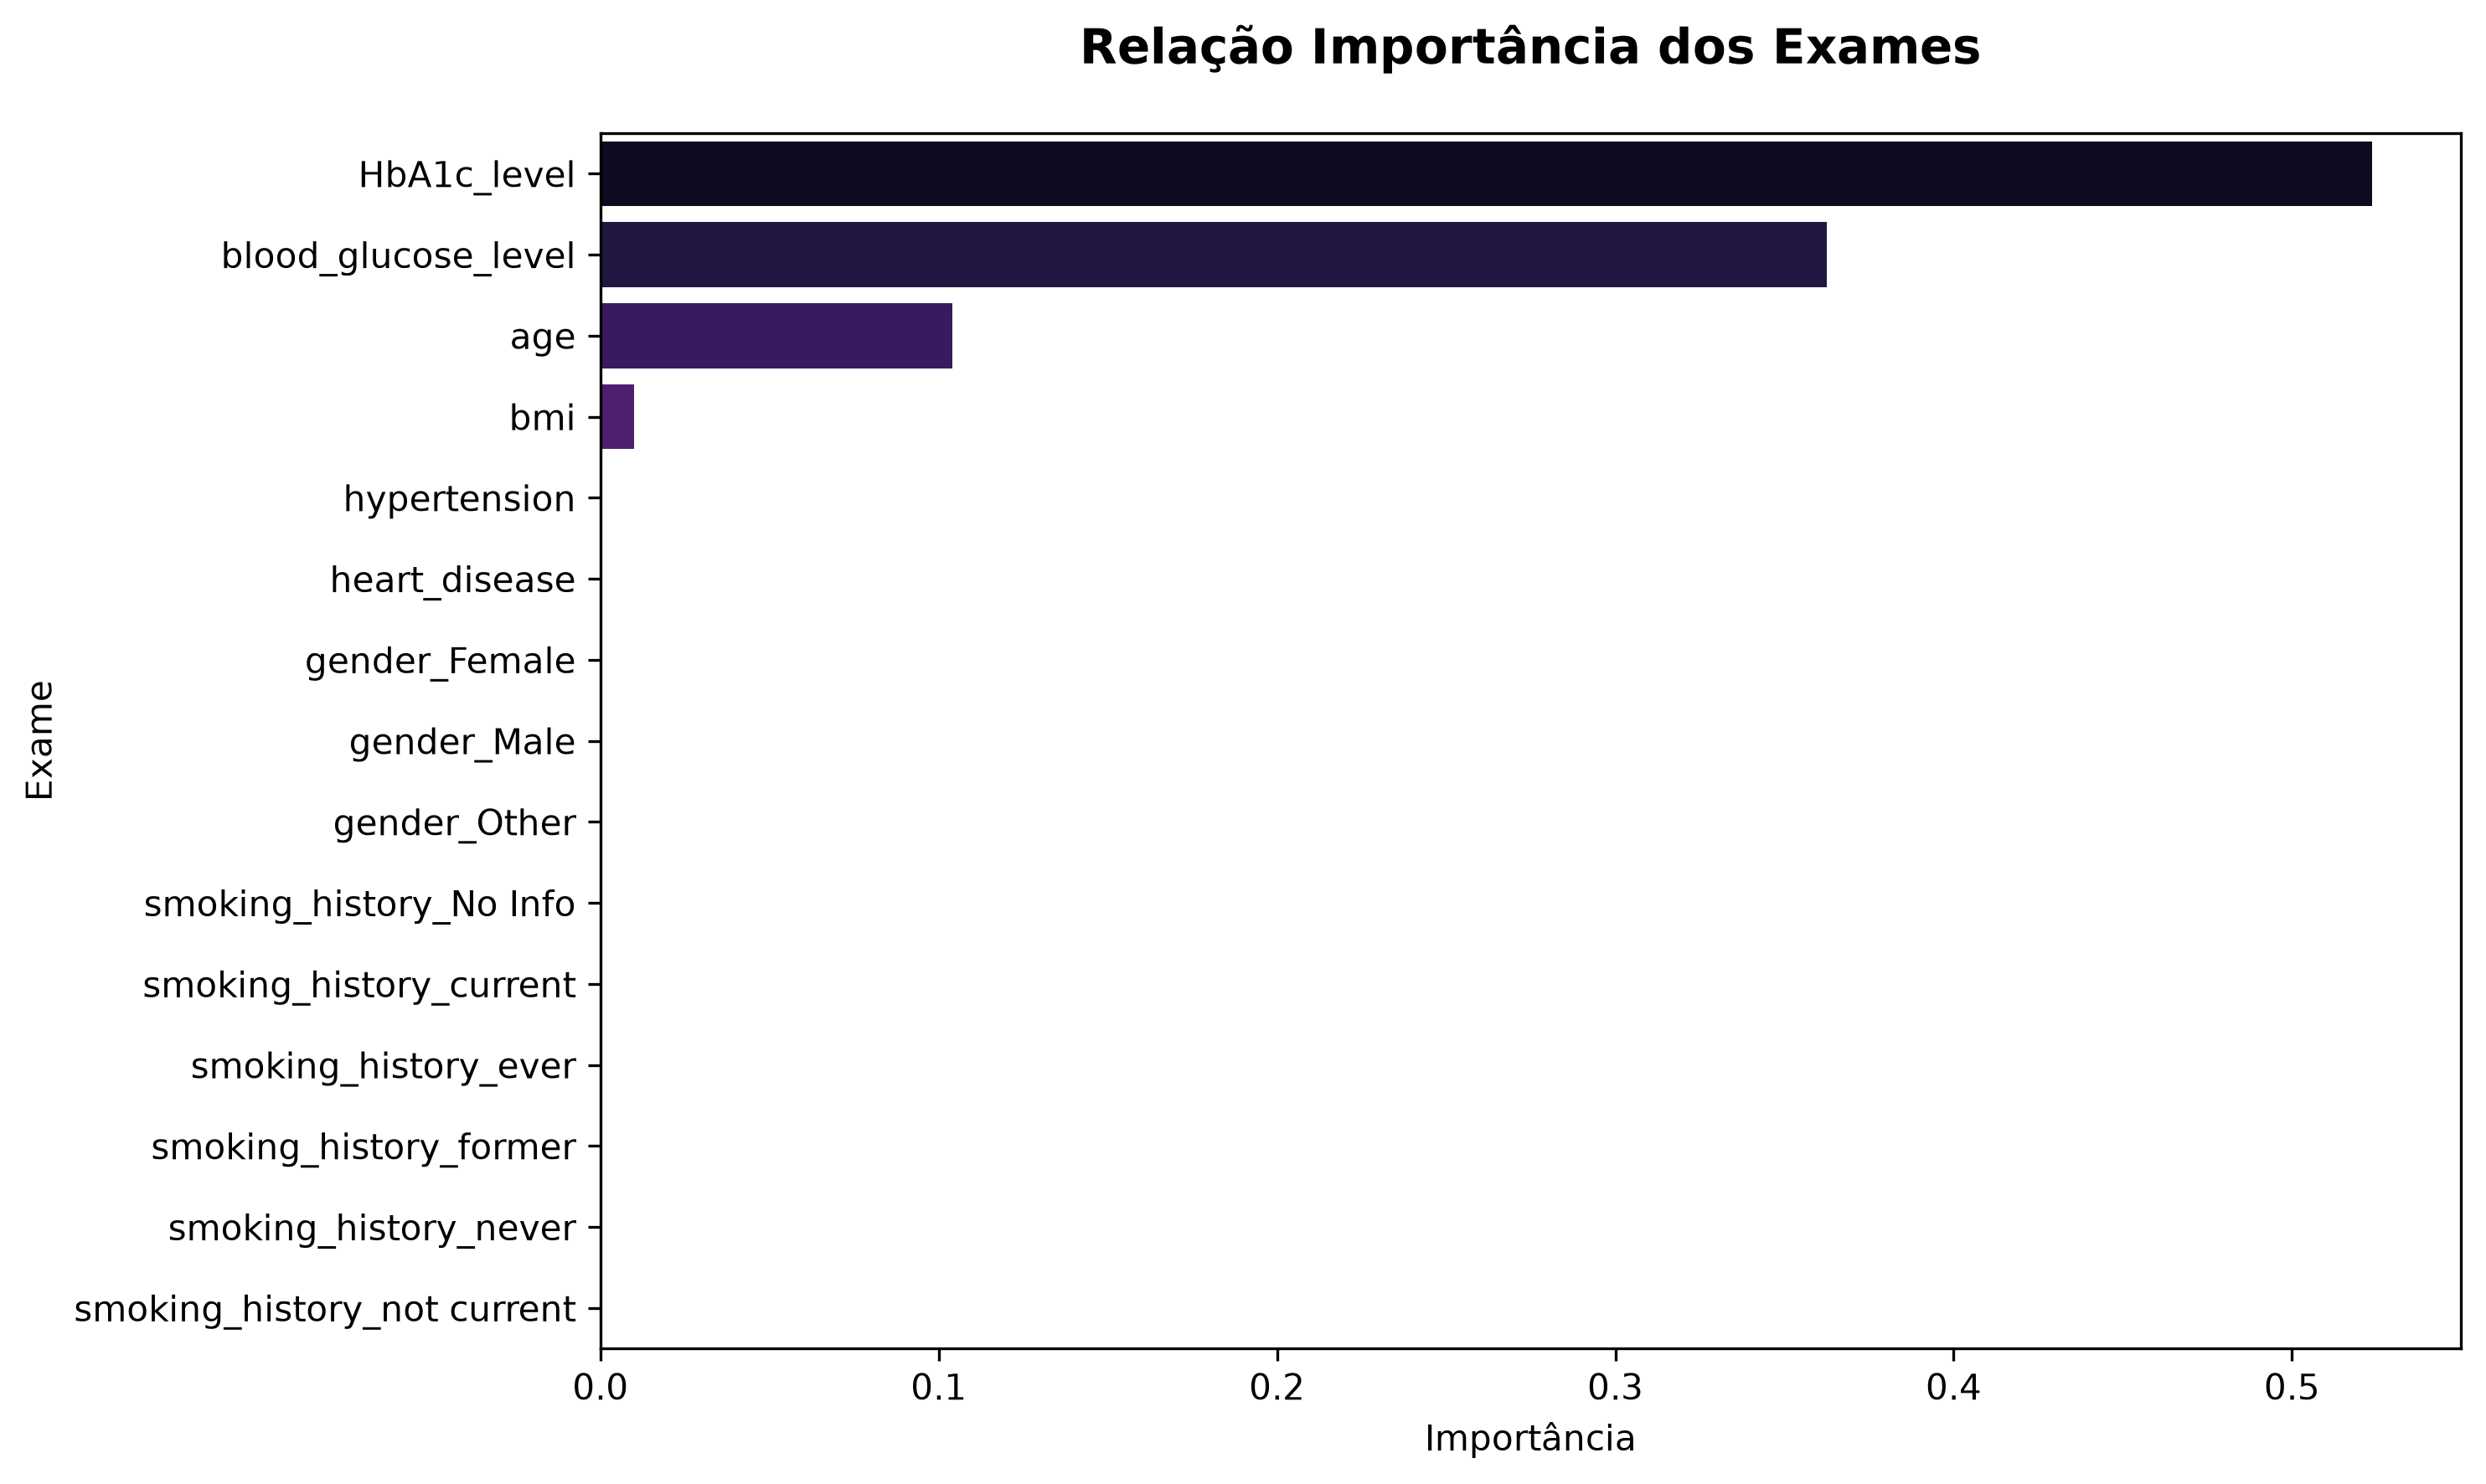
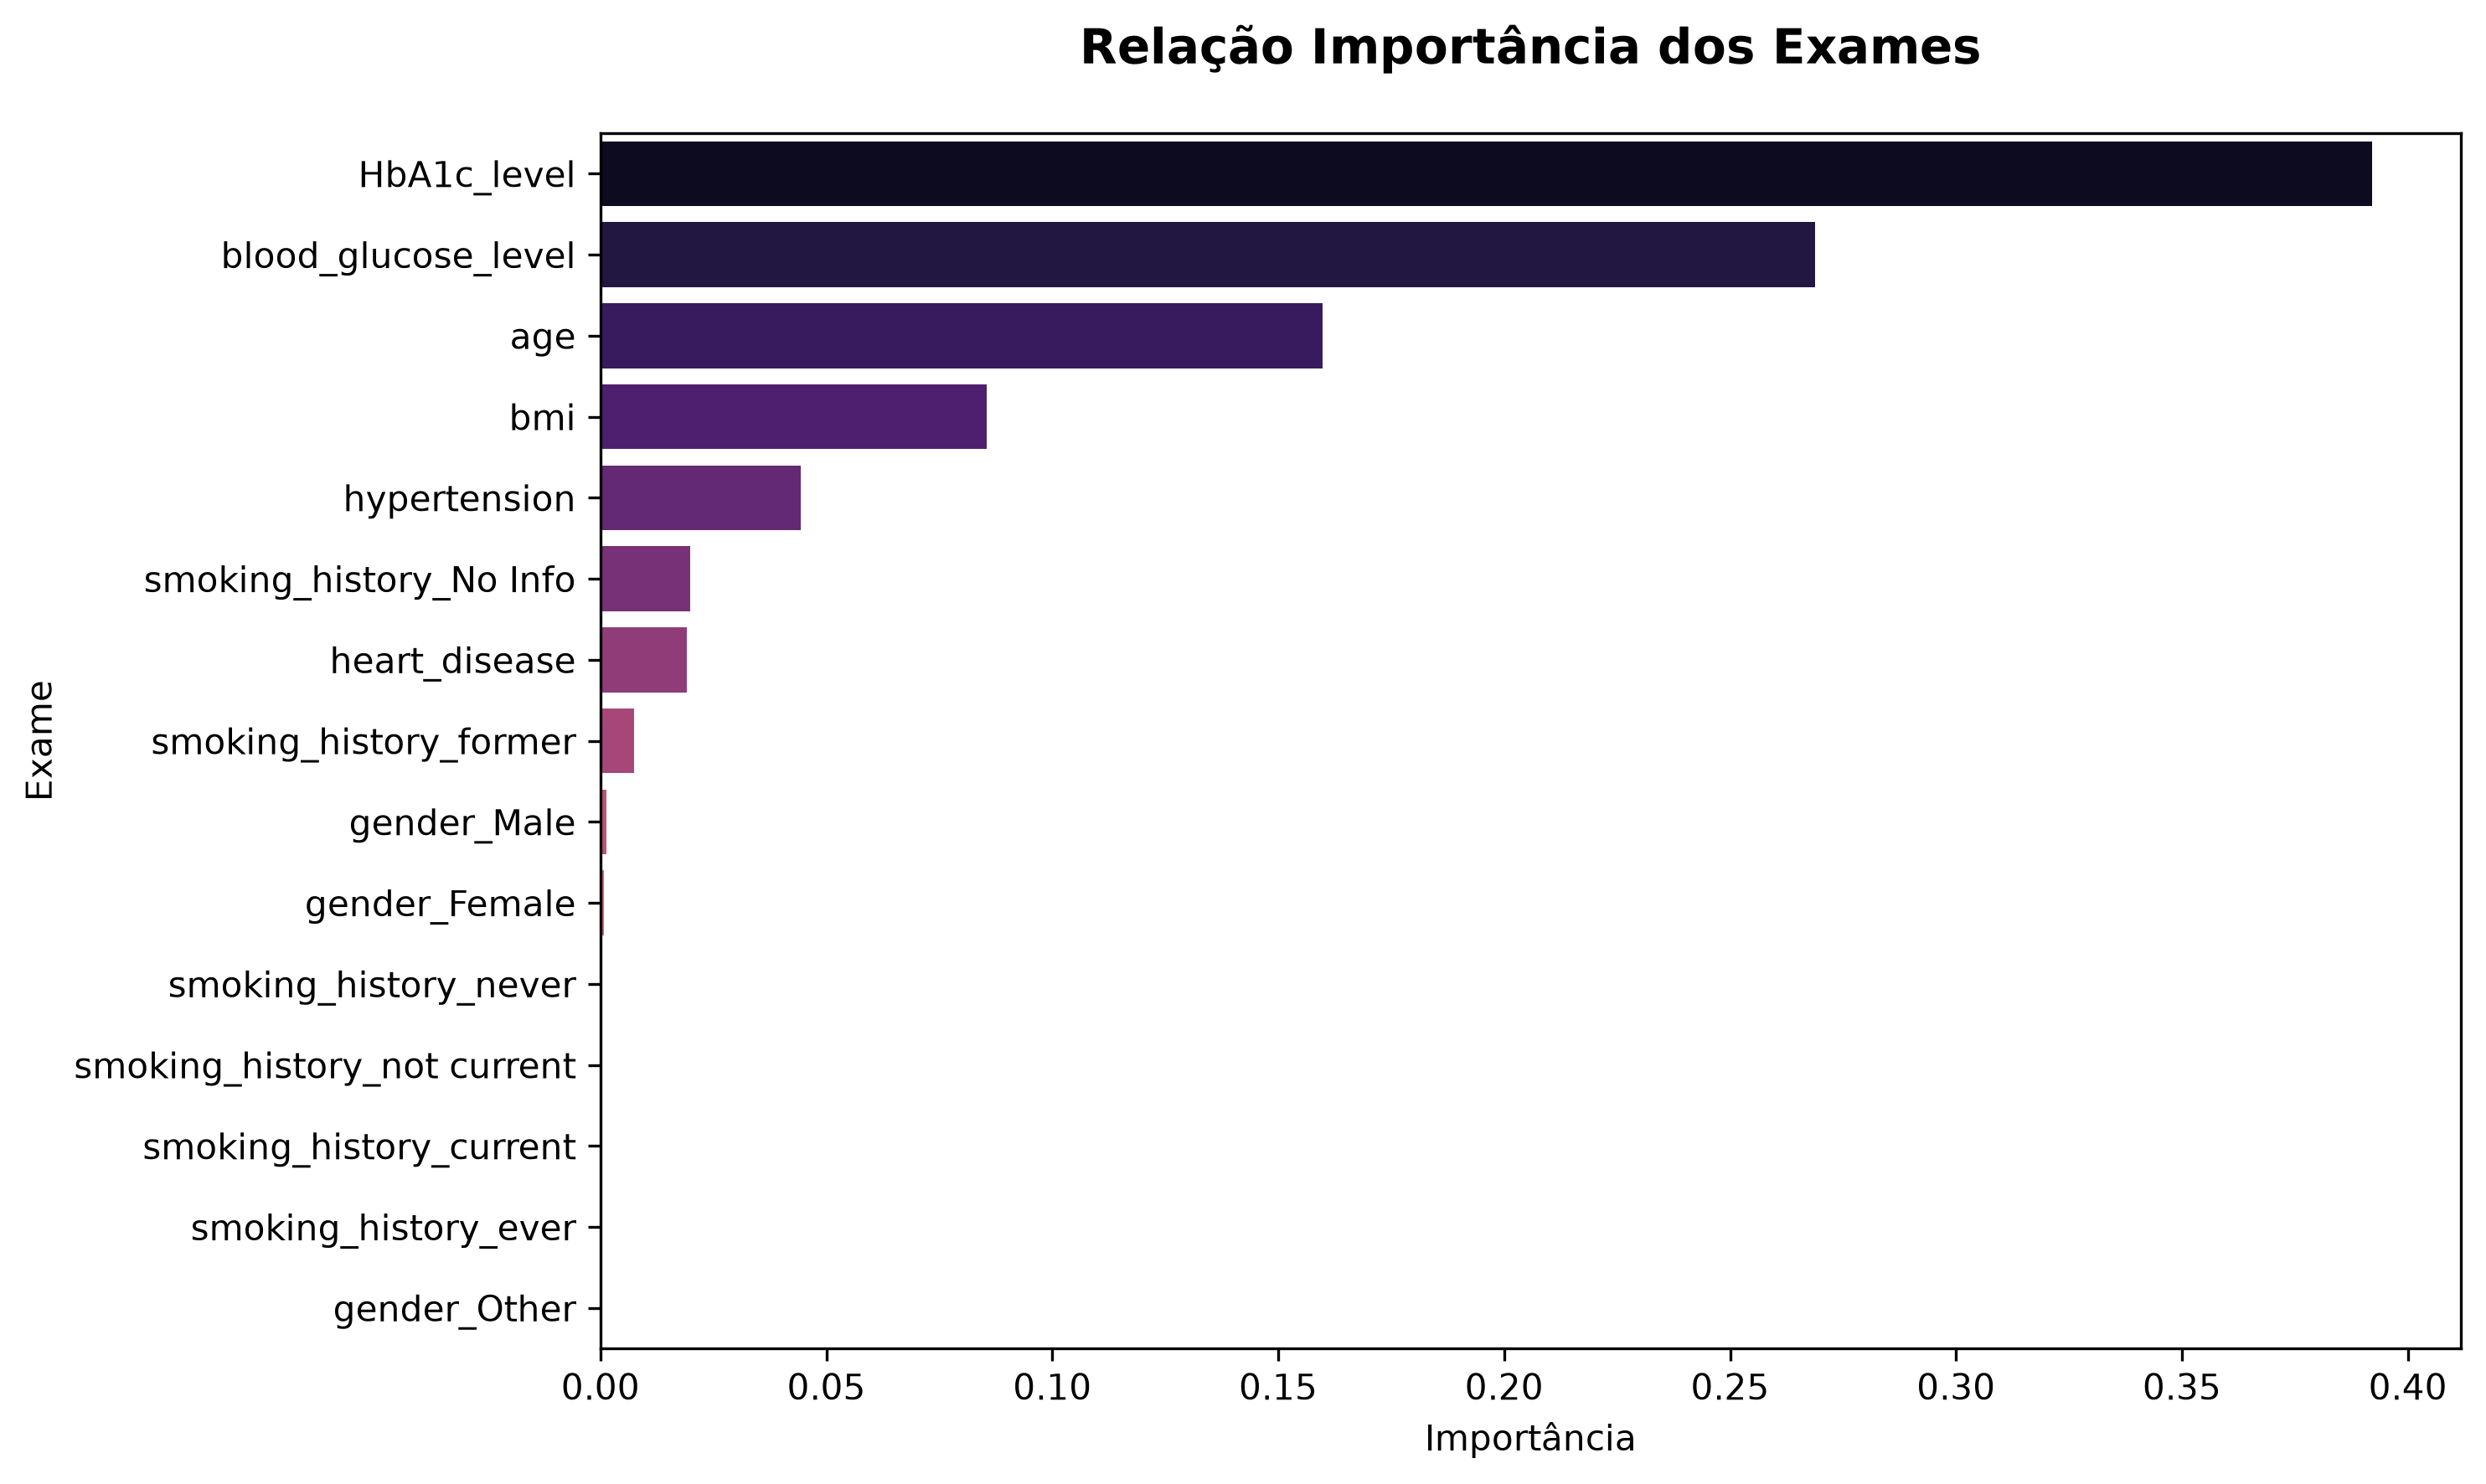
feat: upgrade algorítmico para Random Forest com 92% de acurácia global

diff --git a/app.py b/app.py
@@ -1,0 +1,70 @@
+import streamlit as st
+import pandas as pd
+import joblib
+
+# 1. Carregando o "Cérebro" e a "Régua"
+modelo = joblib.load('modelo_diagnostico_diabetes.joblib')
+escalonador = joblib.load('escalonador_diabetes.joblib')
+
+# 2. Desenhando a Tela da Aplicação
+st.set_page_config(page_title="Triagem Médica", page_icon="🩺", layout="centered")
+st.title("🩺 IA Médica - Previsão de Diabetes")
+st.write("Preencha os dados do paciente abaixo para realizar a triagem automática.")
+
+st.markdown("---")
+
+# 3. Criando as colunas do formulário
+col1, col2 = st.columns(2)
+
+with col1:
+    st.subheader("Exames Vitais")
+    age = st.number_input("Idade", min_value=0, max_value=120, value=50)
+    bmi = st.number_input("IMC", min_value=10.0, max_value=60.0, value=25.0, step=0.1)
+    hba1c = st.number_input("Nível de HbA1c", min_value=3.0, max_value=15.0, value=5.5, step=0.1)
+    glicose = st.number_input("Nível de Glicose", min_value=50, max_value=300, value=100)
+
+with col2:
+    st.subheader("Fatores de Risco e Cadastro")
+    gender = st.selectbox("Gênero", ["Feminino", "Masculino", "Outro"])
+    hypertension = st.selectbox("Hipertensão?", ["Não", "Sim"])
+    heart_disease = st.selectbox("Doença Cardíaca?", ["Não", "Sim"])
+    smoking = st.selectbox("Histórico de Fumo", ["Nunca fumou", "Ex-fumante", "Fumante atual", "Sempre fumou", "Não fuma atualmente", "Sem informação"])
+
+st.markdown("---")
+
+# 4. O Botão de Previsão
+if st.button("Gerar Diagnóstico Preditivo", type="primary"):
+    
+    # 4.1 Traduzindo os textos do formulário para os "zeros e uns" que a máquina entende
+    dados_paciente = {
+        'age': age,
+        'hypertension': 1 if hypertension == "Sim" else 0,
+        'heart_disease': 1 if heart_disease == "Sim" else 0,
+        'bmi': bmi,
+        'HbA1c_level': hba1c,
+        'blood_glucose_level': glicose,
+        'gender_Female': 1 if gender == "Feminino" else 0,
+        'gender_Male': 1 if gender == "Masculino" else 0,
+        'gender_Other': 1 if gender == "Outro" else 0,
+        'smoking_history_No Info': 1 if smoking == "Sem informação" else 0,
+        'smoking_history_current': 1 if smoking == "Fumante atual" else 0,
+        'smoking_history_ever': 1 if smoking == "Sempre fumou" else 0,
+        'smoking_history_former': 1 if smoking == "Ex-fumante" else 0,
+        'smoking_history_never': 1 if smoking == "Nunca fumou" else 0,
+        'smoking_history_not current': 1 if smoking == "Não fuma atualmente" else 0
+    }
+    
+    # 4.2 Convertendo para DataFrame
+    df_paciente = pd.DataFrame([dados_paciente])
+    
+    # 4.3 Aplicando o Escalonador (A régua)
+    df_escalonado = escalonador.transform(df_paciente)
+    
+    # 4.4 Realizando a Previsão
+    resultado = modelo.predict(df_escalonado)
+    
+    # 5. Exibindo o Resultado na Tela
+    if resultado[0] == 1:
+        st.error("🚨 **ALERTA: Paciente classificado como ALTO RISCO para Diabetes.** Recomenda-se avaliação médica imediata.")
+    else:
+        st.success("✅ **BAIXO RISCO:** O paciente não apresenta indicativos graves de diabetes no momento.")

diff --git a/diagnostico_medico.py b/diagnostico_medico.py
@@ -8,6 +8,7 @@ from sklearn.model_selection import train_test_split
 from sklearn.metrics import accuracy_score, precision_score, recall_score, f1_score, classification_report, confusion_matrix, ConfusionMatrixDisplay
 from sklearn.preprocessing import StandardScaler
 import joblib
+from sklearn.ensemble import RandomForestClassifier
 
 #Configuracao global da fonte
 
@@ -101,7 +102,7 @@ X_treino_escalonado, X_teste_escalonado, escalonador_treinado = escalonando(X_tr
 
 #instanciamento e treinamento do modelo
 def treinar_modelo(X_exercicio: pd.DataFrame, y_exercicio: pd.Series) -> DecisionTreeClassifier:
-  modelo = DecisionTreeClassifier(max_depth= 5, class_weight='balanced')
+  modelo = RandomForestClassifier(n_estimators=100, max_depth=5, class_weight='balanced', random_state=42)
   modelo.fit(X_exercicio, y_exercicio)
   return modelo
 

diff --git a/README.md b/README.md
@@ -7,9 +7,9 @@
 ![License](https://img.shields.io/badge/License-MIT-blue.svg?style=for-the-badge)
 
 ## 📌 Descrição do Projeto
-Em um ambiente hospitalar, o diagnóstico precoce e preciso de diabetes salva vidas e otimiza recursos. Este projeto é um sistema de **Machine Learning (Árvore de Decisão)** desenvolvido para atuar como um "segundo olhar" médico, triando pacientes com base em seus exames de sangue e histórico de saúde. 
+Em um ambiente hospitalar, o diagnóstico precoce e preciso de diabetes salva vidas e otimiza recursos. Este projeto é um sistema de **Machine Learning (Random Forest)** desenvolvido para atuar como um "segundo olhar" médico, triando pacientes com base em seus exames de sangue e histórico de saúde. 
 
-O modelo foi projetado com um foco rigoroso na área da saúde, possuindo um *recall* de **95% para pacientes de alto risco**, garantindo que quase nenhum doente passe despercebido. Além disso, o sistema conta com uma esteira automatizada de auditoria de dados, que trata valores faltantes no prontuário utilizando imputação estatística (Média para exames, Moda para dados cadastrais), evitando a perda de histórico de pacientes.
+O modelo foi projetado com um foco rigoroso na área da saúde, possuindo um *recall* de **89% para pacientes de alto risco**, garantindo que quase nenhum doente passe despercebido e uma *acurácia* de **92% para pacientes de abaixo risco**, garantido que quase nenhum paciente saudável seja mantido no hospital com suspeita de estar doente. Além disso, o sistema conta com uma esteira automatizada de auditoria de dados, que trata valores faltantes no prontuário utilizando imputação estatística (Média para exames, Moda para dados cadastrais), evitando a perda de histórico de pacientes.
 
 ---
 
@@ -47,10 +47,12 @@ Nenhum exame numérico nulo encontrado.
 --- AUDITORIA DE CADASTRO (TEXTOS) ---
 Nenhum dado de texto nulo encontrado.
 
-              precision    recall  f1-score   support
- Baixo Risco       0.99      0.82      0.90     18292
-  Alto Risco       0.32      0.95      0.48      1708
+                precision   recall   f1-score   support
 
+ Baixo Risco       0.99      0.92      0.95     18292
+  Alto Risco       0.51      0.89      0.65      1708
+
+    accuracy                           0.92     20000
 ```
 
 ---